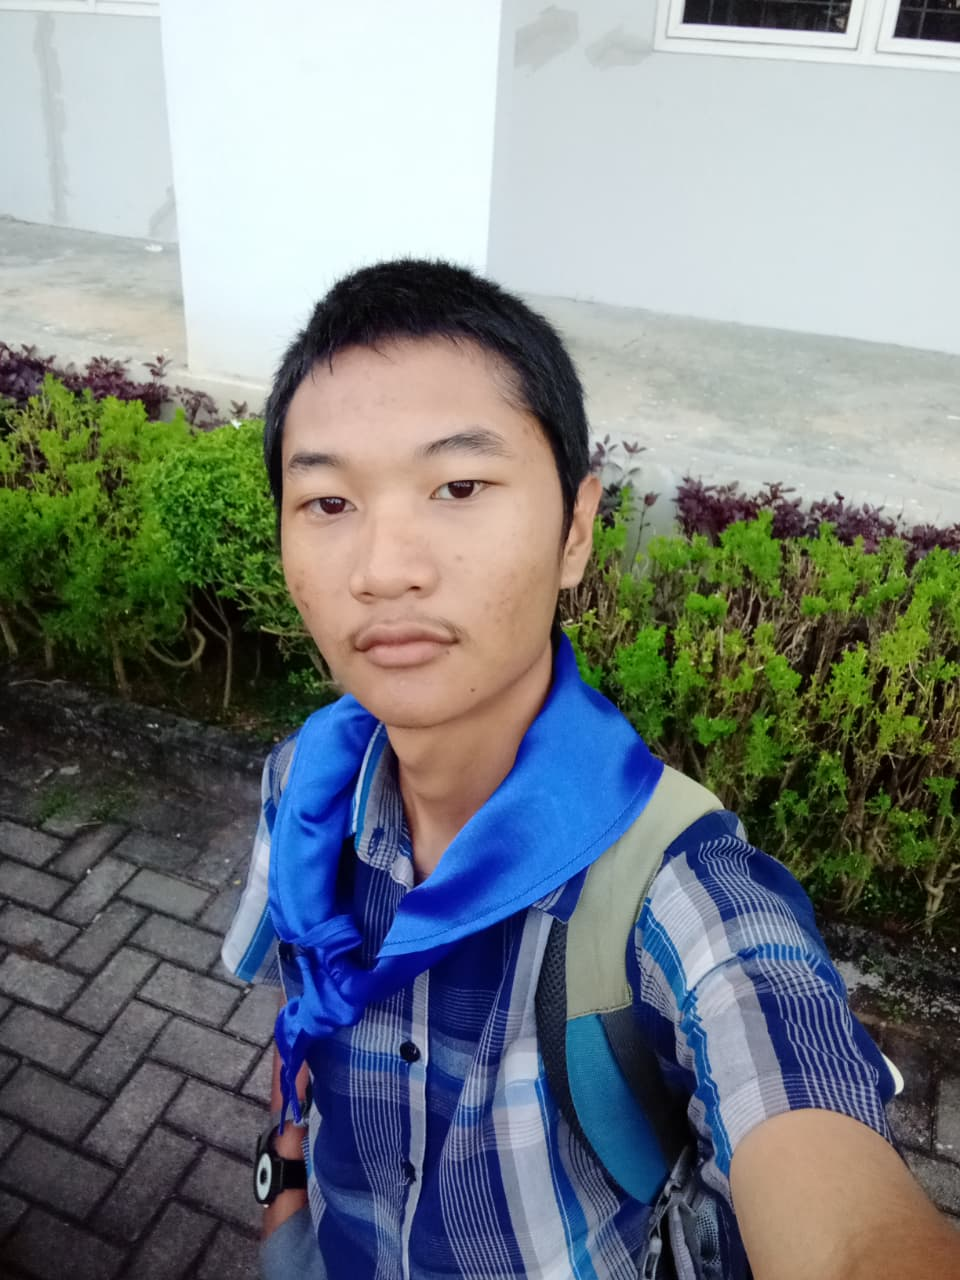
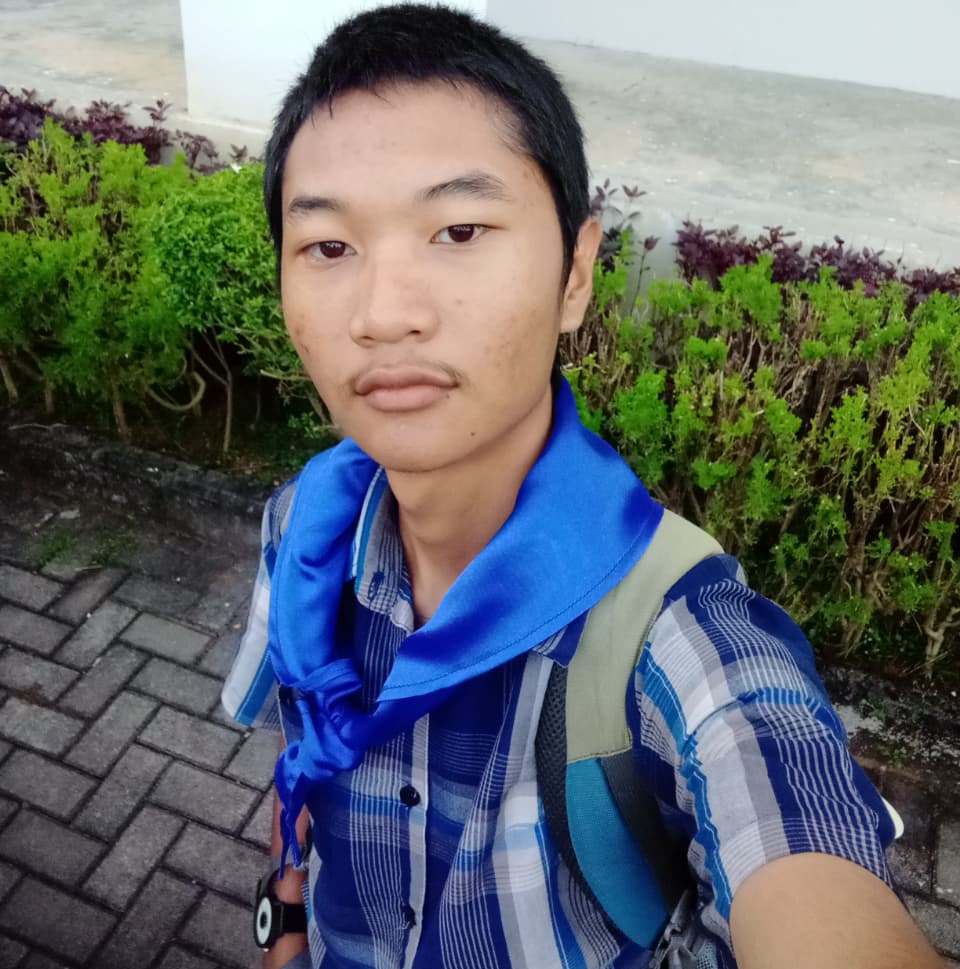
Delete unused image, fix styling on index, fix image cropping

diff --git a/src/style/index.css b/src/style/index.css
@@ -49,7 +49,7 @@
   flex-direction: row;
   justify-content: space-between;
   margin-inline-start: 3rem;
-  margin-inline-end: 5rem;
+  margin-inline-end: 9rem;
 }
 
 .pengenalan-left {
@@ -75,7 +75,6 @@
   margin-top: 6rem;
   display: flex;
   flex-direction: column;
-  margin-right: 3rem;
 }
 
 .findme {
@@ -220,6 +219,7 @@
   .hero-content,
   .pengenalan-content,
   .findme-content {
+    padding-top: 3em;
     margin-inline: 0.5rem;
     gap: 1rem;
   }

diff --git a/index.html b/index.html
@@ -74,7 +74,7 @@
             <li>Alergi terhadap susu sapi</li>
             <li>Suka nonton balapan NASCAR</li>
             <li>Dengerin lagu hi-res</li>
-            <li>Digital marketing enthusiast</li>
+            <li>Main Team Fortress 2</li>
             <li>Suka oprek laptop/PC</li>
           </ul>
         </h>
